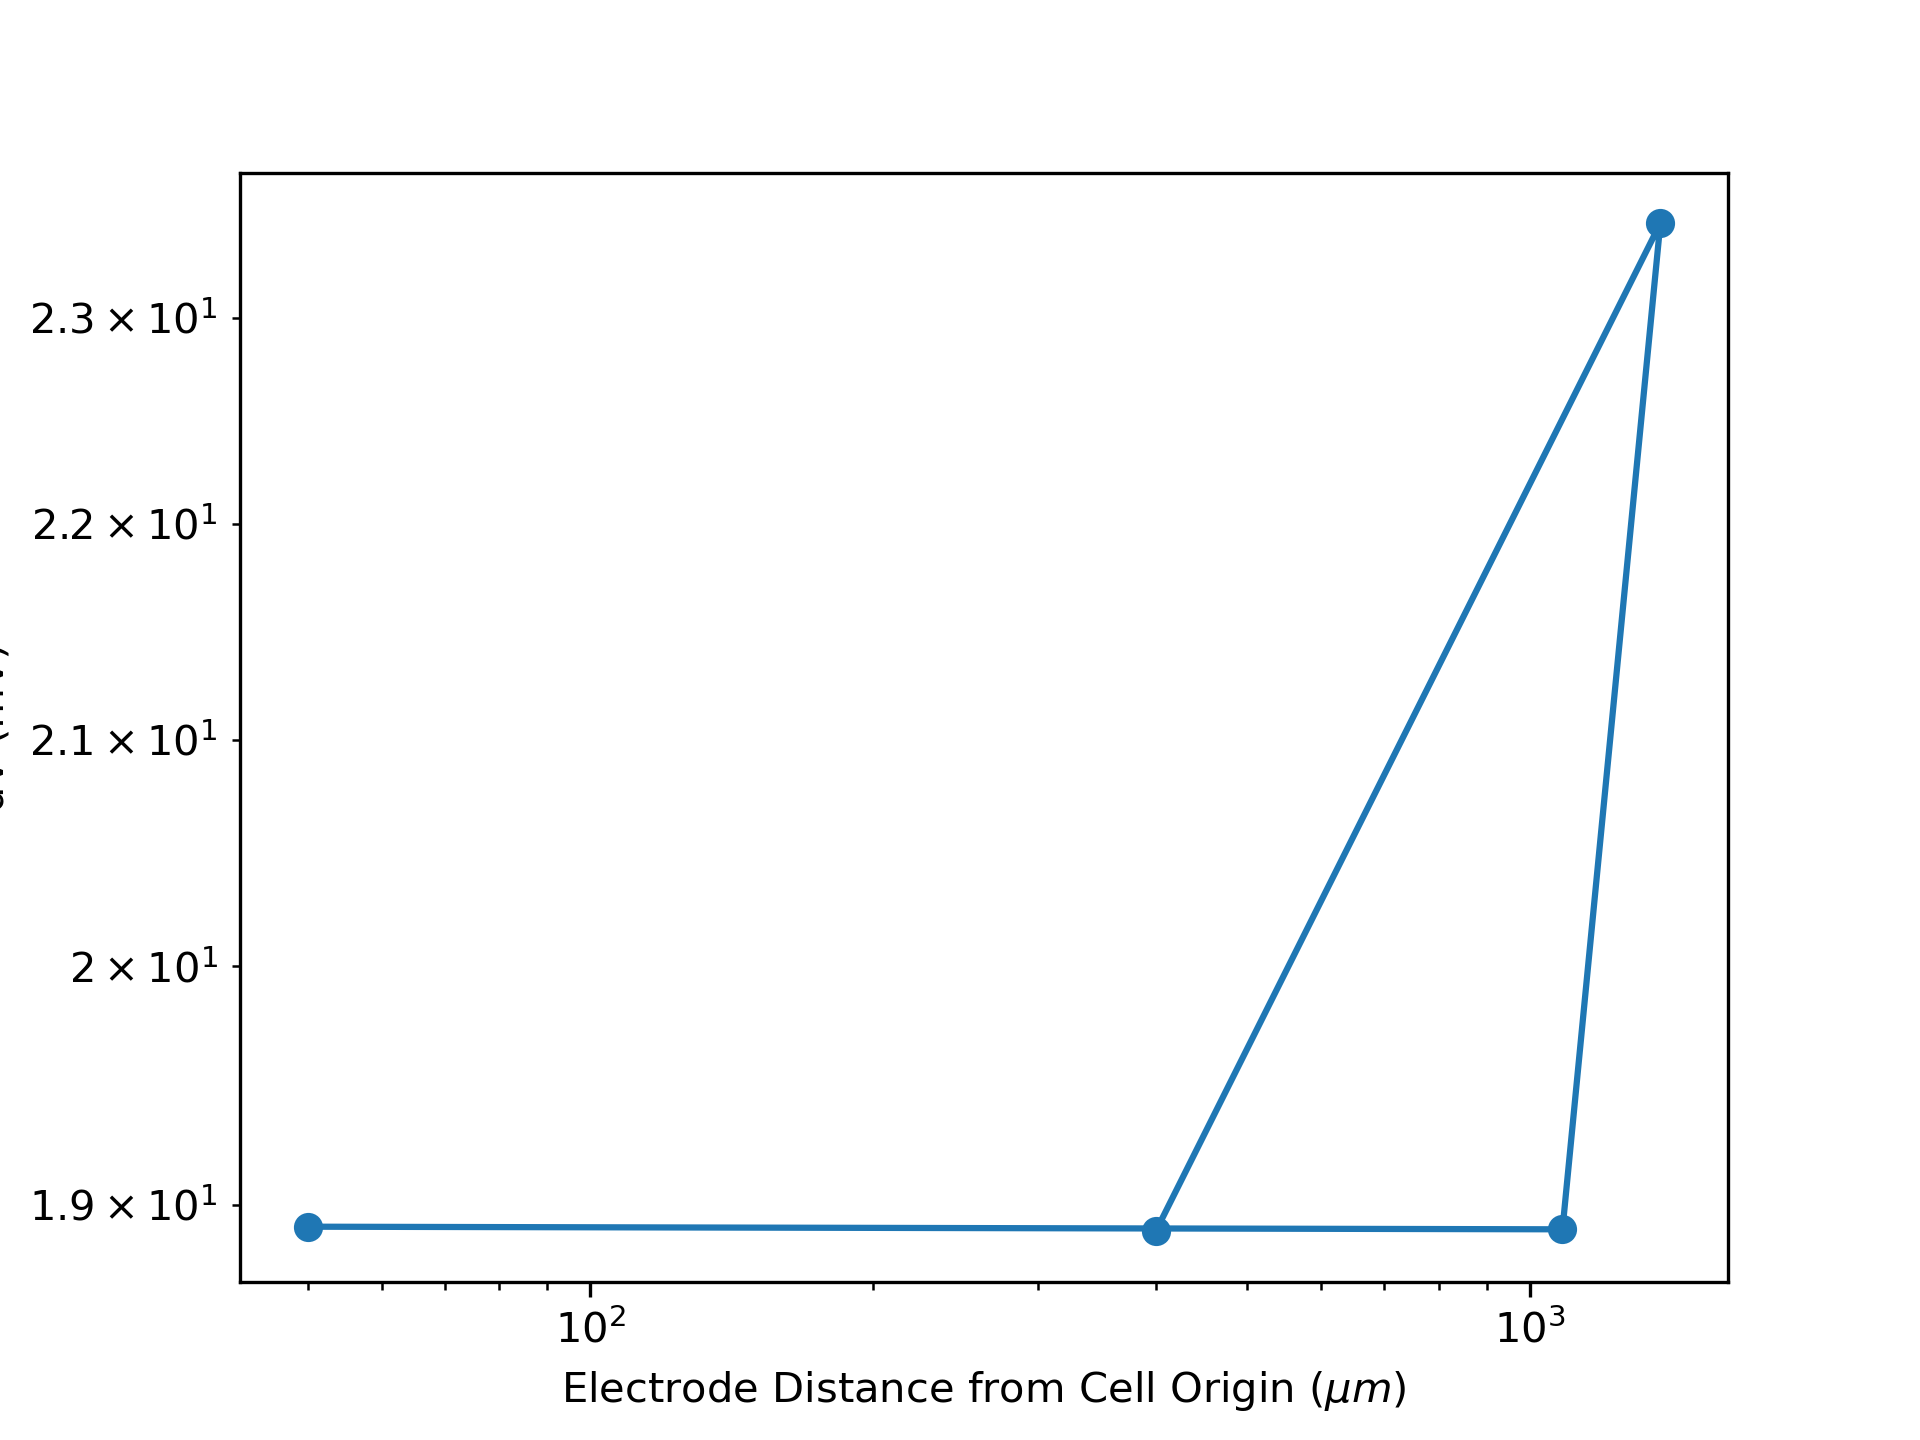
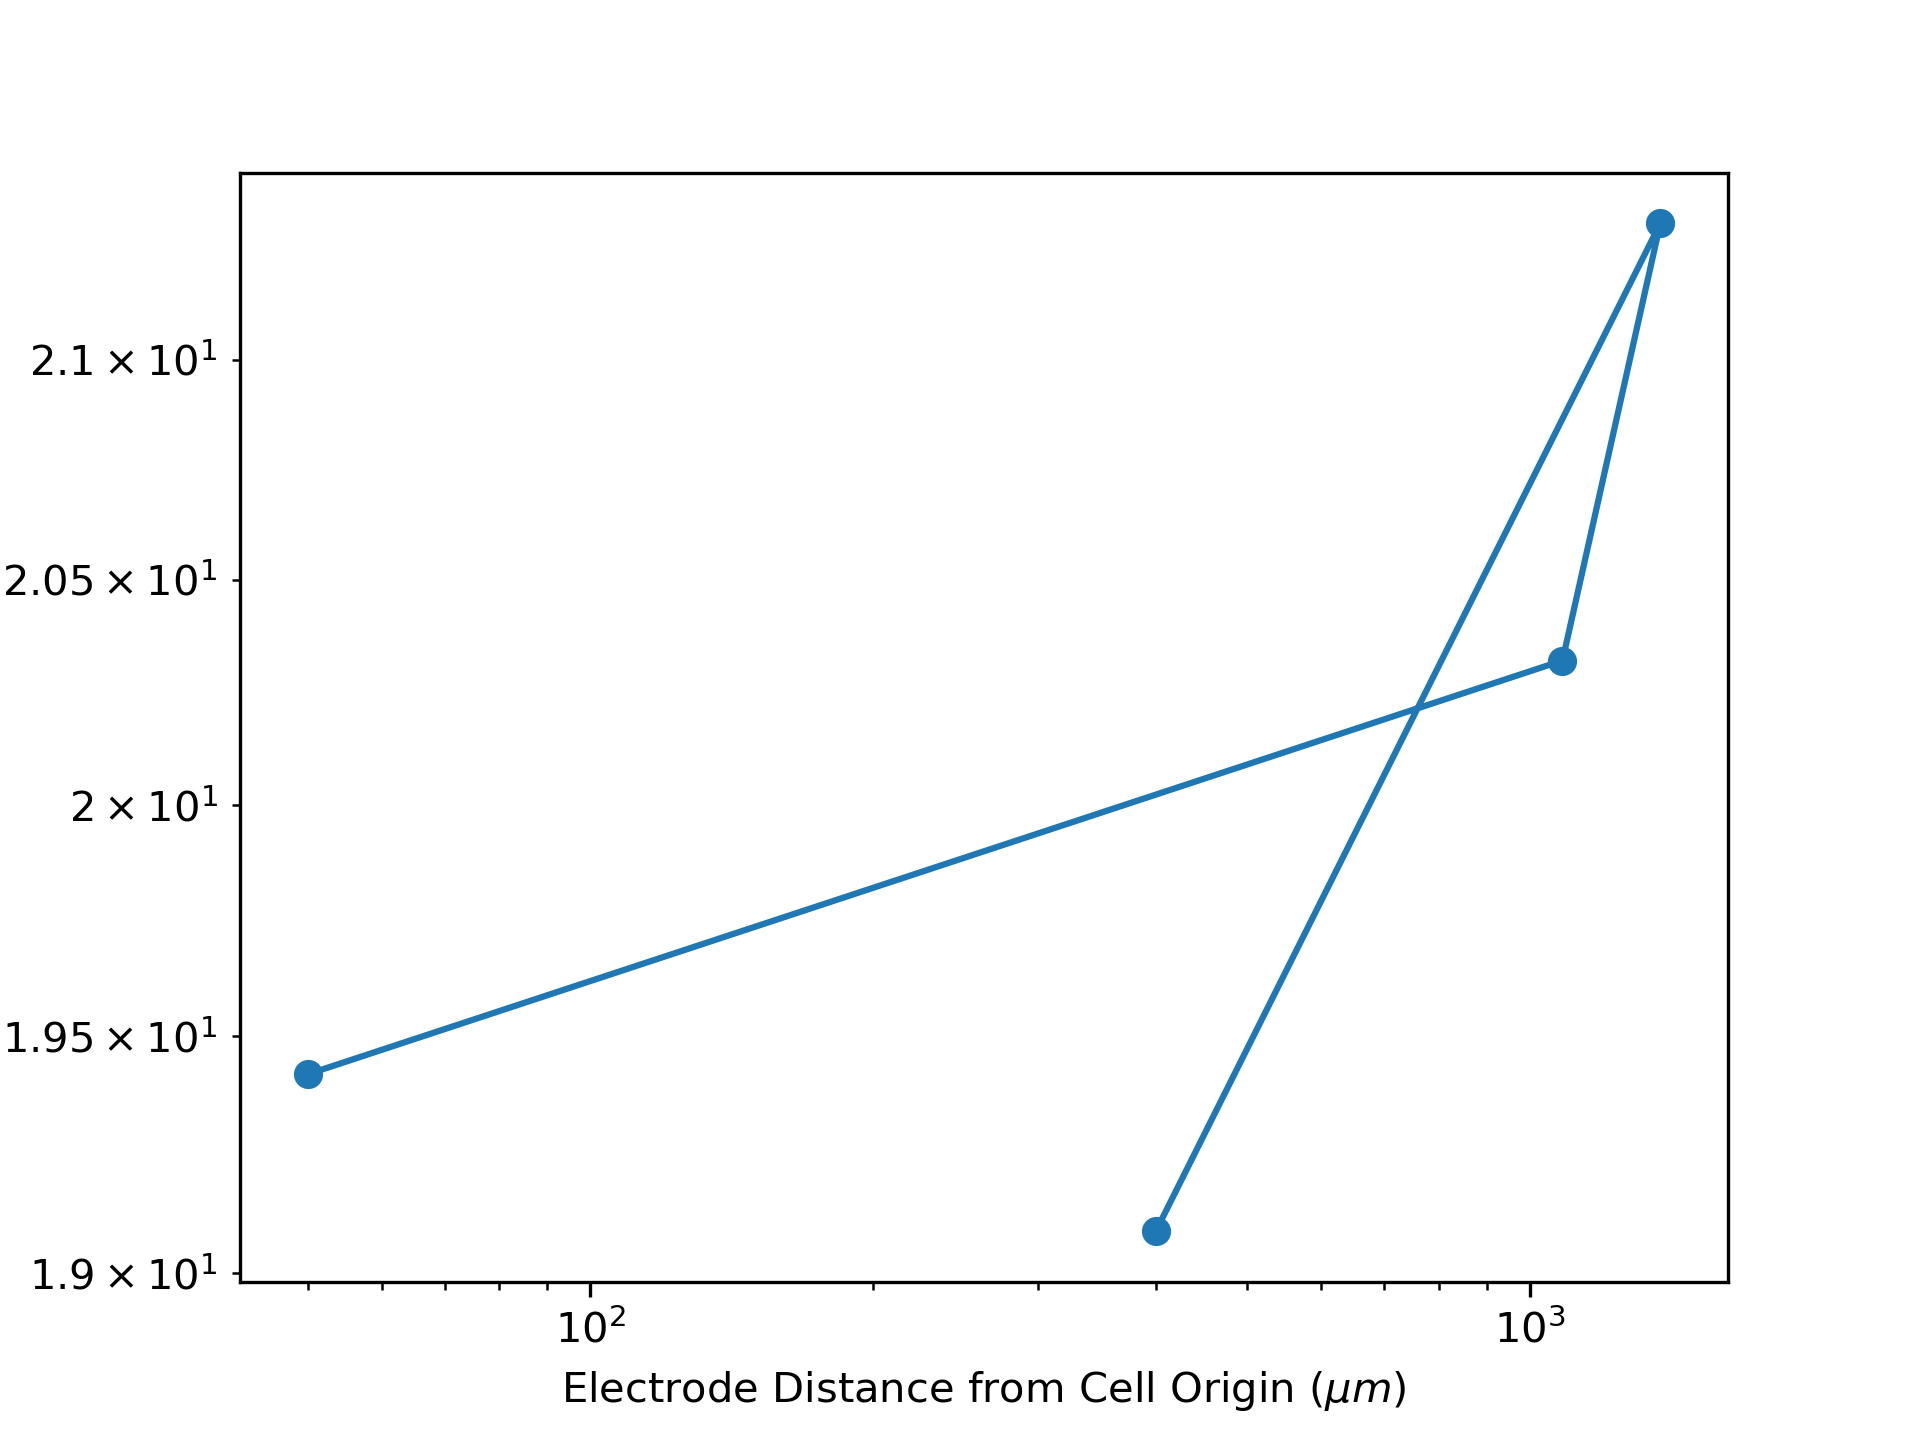
Testing new parameters

diff --git a/hallermann_single_source_pulse.py b/hallermann_single_source_pulse.py
@@ -16,7 +16,7 @@ extPotSim = ExternalPotentialSim(cellsim_Hallermann_params)
 
 
 # Test parameters
-current_amps = [1e4, -1e4, -5e3, -4e3, -3e3,  -1e3]  # uA
+current_amps = [1e4, -1e4, -8e3, 8e3, -7e3, 7e3, -5e3, 5e3]  # uA
 positions = [np.array([[50, 0, -200], ], dtype=float),
              np.array([[201, 81, 602], ], dtype=float),
              np.array([[-242, 7, 929], ], dtype=float),
